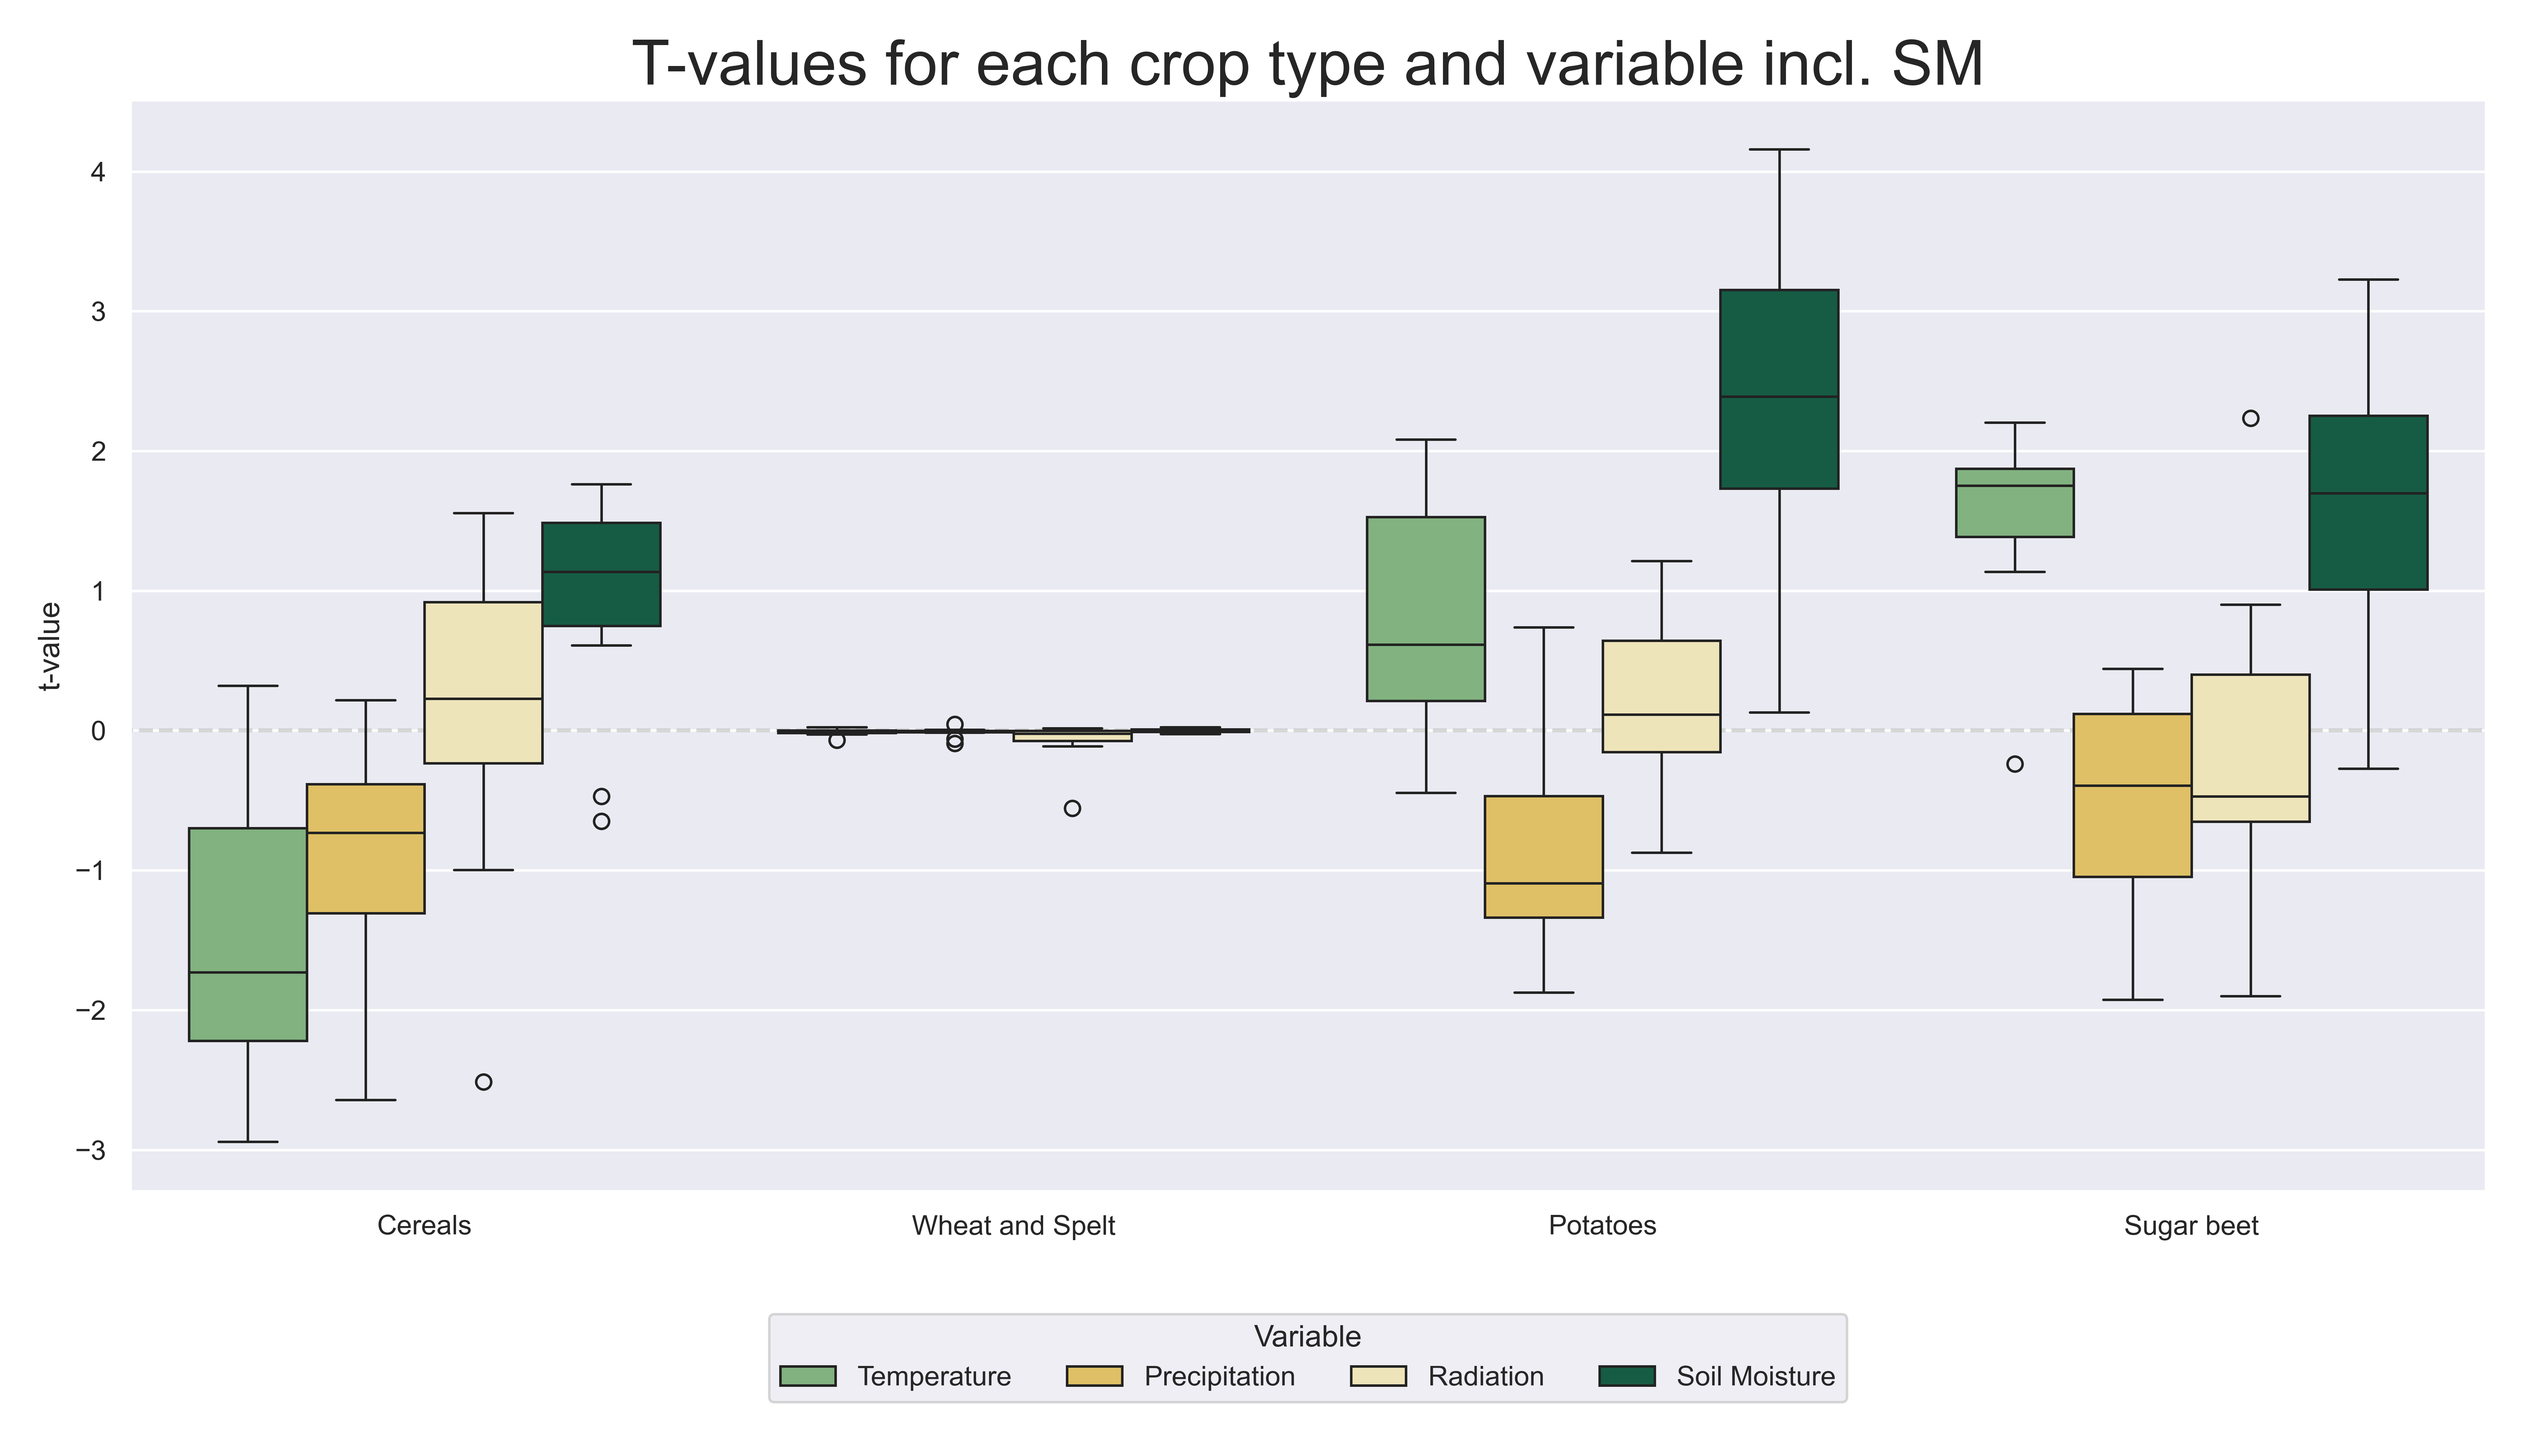
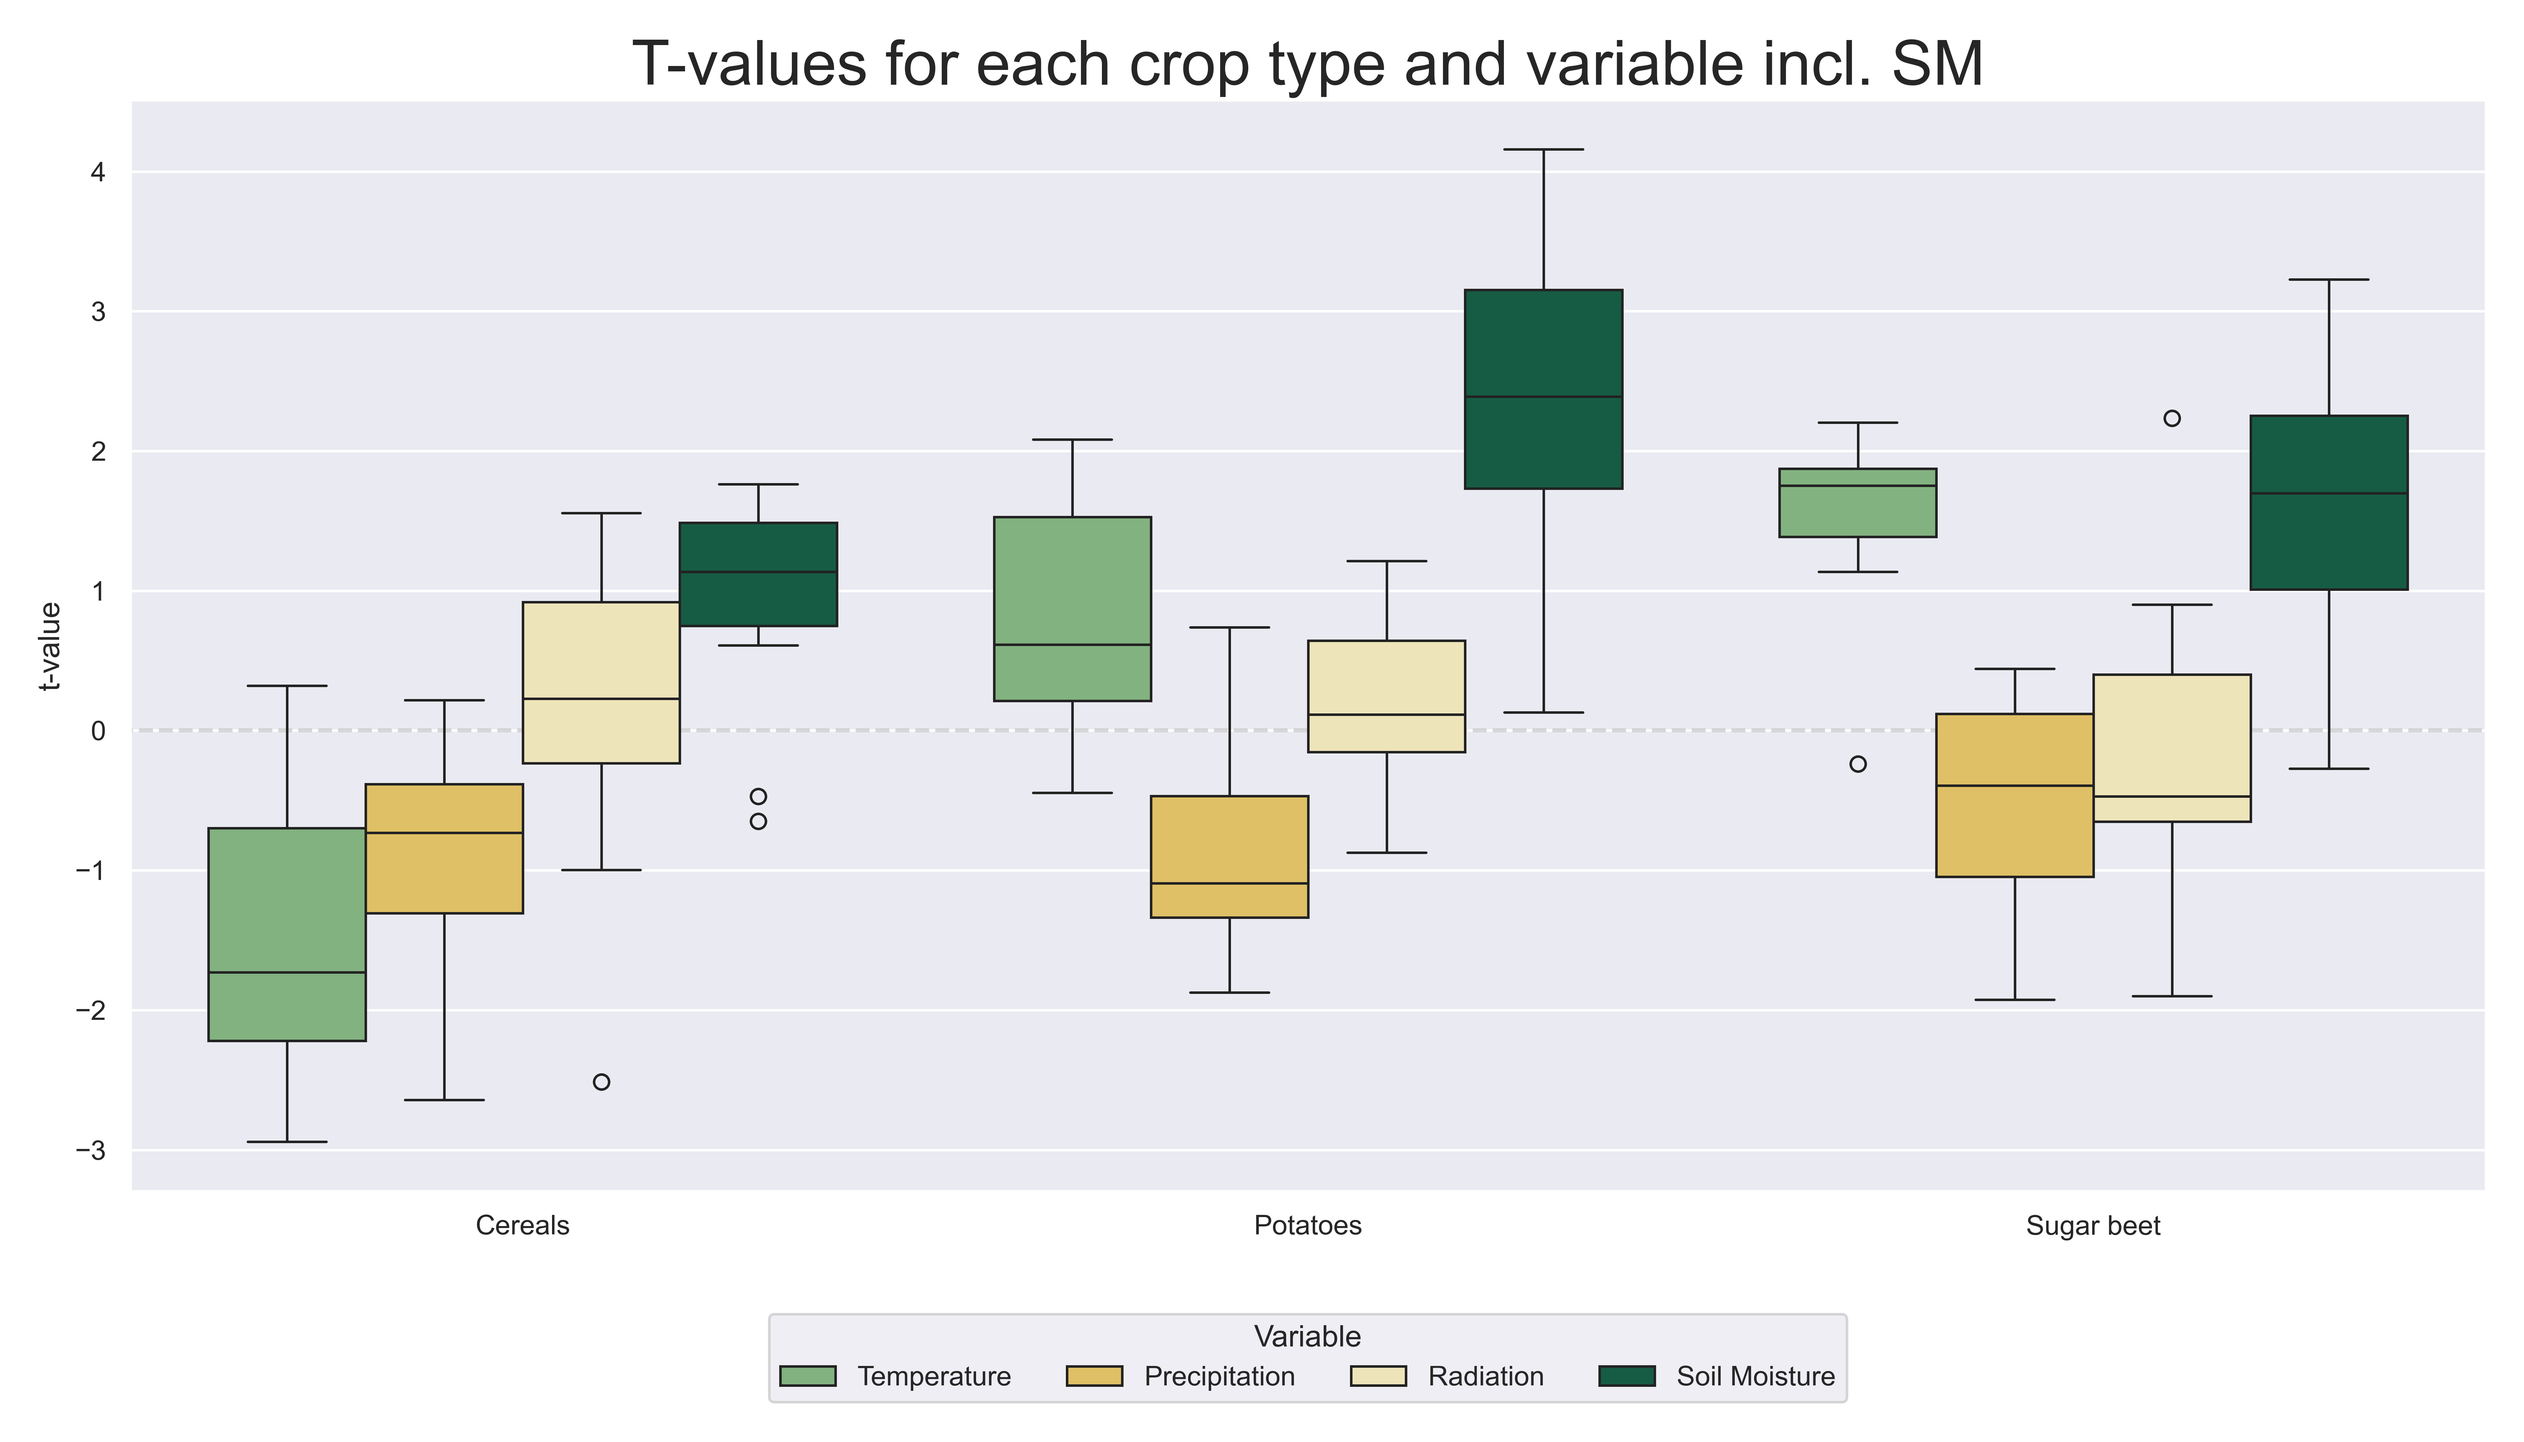
corrected plots without wheat

diff --git a/crop_yield/compareWSI/compareWSI.py b/crop_yield/compareWSI/compareWSI.py
@@ -172,7 +172,8 @@ def drop_crop(state, crop, dropped_cols_keys):
 def plot_comparison():
     sns.set_theme()
     plt.rcParams.update({'font.size': 14})
-    df = pd.read_csv('crop_yield/compareWSI/results.csv')
+    df_ = pd.read_csv('crop_yield/compareWSI/results.csv')
+    df = df_[df_['crop_type'] != 'C1100 cereal']
     # Create empty lists to store mean and standard deviation for each water stress index
     # Convert 'Correlation' column to numeric
     df['Pearson Correlation'] = pd.to_numeric(df['Pearson Correlation'], errors='coerce')
@@ -190,7 +191,7 @@ def plot_comparison():
     stdtolist = np.array(std_correlation.tolist())
     i = 0
     color = 'black'
-    for crop in ds.crop_types:
+    for crop in ds.full_crop_types:
         water_stress_values = filtered_nan_counts[filtered_nan_counts['crop_type'] == crop]['Water Stress Index'].unique().tolist()
         missing_waterstess = len(water_stress_values)-2
         fig = plt.figure(figsize=(10, 6))
@@ -204,7 +205,7 @@ def plot_comparison():
 
         i += 14
         plt.legend(bbox_to_anchor=(0.5, -0.1), loc='upper center', ncol=5)
-        plt.ylim(-0.7, 0.3)
+        plt.ylim(-0.7, 0.4)
         plt.xlim(315,395)
         plt.xlabel('Water Stress Index')
         plt.ylabel('Correlation')
@@ -215,7 +216,7 @@ def plot_comparison():
 
 def plot_comp_comparison():
     sns.set_theme()
-    plt.rcParams.update({'font.size': 14})
+    plt.rcParams.update({'font.size': 25})
     df = pd.read_csv('crop_yield/compareWSI/results.csv')
     # Create empty lists to store mean and standard deviation for each water stress index
     # Convert 'Correlation' column to numeric
@@ -239,13 +240,13 @@ def plot_comp_comparison():
     for crop in ds.filal_plot_crops:
         water_stress_values = filtered_nan_counts[filtered_nan_counts['crop_type'] == crop]['Water Stress Index'].unique().tolist()
         missing_waterstess = len(water_stress_values)-2
-        plt.plot(water_stress_values, meantolist[i+14+missing_waterstess:i+14+14], marker='o', linestyle='-', color=ds.crop_types_colors[crop], label=f'{ds.crop_short[crop]}')
-        plt.fill_between(water_stress_values, meantolist[i+missing_waterstess+14:i+14+14]-stdtolist[i+14+missing_waterstess:i+14+14], meantolist[i+14+missing_waterstess:i+14+14]+stdtolist[i+missing_waterstess+14:i+14+14], alpha=0.2, color=ds.crop_types_colors[crop])
+        plt.plot(water_stress_values, meantolist[i+14+14+missing_waterstess:i+14+14+14], marker='o', linestyle='-', color=ds.crop_types_colors[crop], label=f'{ds.crop_short[crop]}')
+        plt.fill_between(water_stress_values, meantolist[i+missing_waterstess+14+14:i+14+14+14]-stdtolist[i+14+14+missing_waterstess:i+14+14+14], meantolist[i+14+missing_waterstess+14:i+14+14+14]+stdtolist[i+missing_waterstess+14+14:i+14+14+14], alpha=0.2, color=ds.crop_types_colors[crop])
         i += 14
         plt.hlines(-ds.crop_types_correlation[crop], water_stress_values[0], 390, linestyle='--',  color=ds.crop_types_colors[crop]),#label=f'Average correlation for soilmoisture {ds.crop_short[crop]}')
     #plt.plot(water_stress_values, 390*np.ones_like(water_stress_values), linestyle='--', label='Average correlation for soilmoisture', color='grey')
     plt.legend(bbox_to_anchor=(0.5, -0.1), loc='upper center', ncol=3)
-    plt.ylim(-0.7, 0.3)
+    plt.ylim(-0.7, 0.4)
     plt.xlabel('Water Stress Index')
     plt.xlim(315,395)
     plt.ylabel('Correlation')

diff --git a/crop_yield/multipleregression.py b/crop_yield/multipleregression.py
@@ -106,8 +106,8 @@ def with_soil_moisture():
     plt.rcParams.update({'font.size': 14})
     plt.hlines(0, -1, 4, color='grey', linestyle='--', alpha=0.3)
     sns.boxplot(data=df_melted, x='crop', y='t_value', hue='Variable', palette=custom_palette)
-    my_ticks = ['Cereals', 'Wheat and Spelt', 'Potatoes', 'Sugar beet']
-    plt.xticks(ticks=[0, 1, 2, 3], labels=my_ticks)
+    my_ticks = ['Cereals', 'Potatoes', 'Sugar beet']
+    plt.xticks(ticks=[0, 1, 2], labels=my_ticks)
     #plt.xticks(rotation=45)
     plt.title("T-values for each crop type and variable incl. SM", fontsize=25)
     plt.xlabel('')
@@ -134,7 +134,7 @@ def without_soil_moisture():
     precipitation_data = pd.read_csv('crop_yield/averaged/crop_yield_processed/total_precipitation39.csv')
     radiation_data = pd.read_csv('crop_yield/averaged/crop_yield_processed/net_radiation39.csv')
     wsi_data = pd.read_csv('crop_yield/averaged/crop_yield_processed/crop_yield_DE_WSI.csv')
-
+    print(yield_data)
     for state in ds.important_states:
         for crop in ds.crop_types:
             yield_values = yield_data[(yield_data['NUTS_ID'] == state) & (yield_data['crops'] == crop)].loc[:, '2000':'2022'].values
@@ -216,8 +216,8 @@ def without_soil_moisture():
     plt.rcParams.update({'font.size': 14})
     plt.hlines(0, -1, 4, color='grey', linestyle='--', alpha=0.3)
     sns.boxplot(data=df_melted, x='crop', y='t_value', hue='Variable', palette=custom_palette)
-    my_ticks = ['Cereals', 'Wheat and Spelt', 'Potatoes', 'Sugar beet']
-    plt.xticks(ticks=[0, 1, 2, 3], labels=my_ticks)
+    my_ticks = ['Cereals', 'Potatoes', 'Sugar beet']
+    plt.xticks(ticks=[0, 1, 2], labels=my_ticks)
     #plt.xticks(rotation=45)
     plt.title("T-values for each crop type and variable excl. SM", fontsize=25)
     plt.xlabel('')
@@ -230,7 +230,6 @@ def without_soil_moisture():
     plt.show()
 
 def correlation():
-
     results_df = pd.DataFrame(columns=['NUTS_ID', 'crop', 'Temperature', 'Precipitation', 'Radiation', 'Soil Moisture'])
     crop = 'C0000'
     state = 'DE4'
@@ -277,6 +276,19 @@ def correlation():
     plt.show()
     print(correlation_matrix)
     print(correlation_matrix_sum)
-with_soil_moisture()
-without_soil_moisture()
-#correlation()
+
+def calculate_deficit():
+    yield_data = pd.read_csv('crop_yield/detrended_data.csv')
+    print(yield_data)
+    specific_crop_data = yield_data[yield_data['crops'].isin(['C1100'])]
+
+# Print the filtered DataFrame
+    print(specific_crop_data)
+    print(yield_data.groupby('crops')['2018'].mean())
+
+
+if __name__ == '__main__':
+    calculate_deficit()
+    with_soil_moisture()
+    without_soil_moisture()
+    correlation()

diff --git a/crop_yield/visualisation_waterstress.py b/crop_yield/visualisation_waterstress.py
@@ -101,14 +101,14 @@ plt.gca().set_facecolor('#F6E9B2')
 #sns.set_theme()
 plt.fill_between(dates[zero_to_nonzero:max_stress], soil_moisture[zero_to_nonzero:max_stress], water_stress_value, color='tab:red', alpha =0.9)
 plt.fill_between(dates[max_stress:nonzero_to_zero], soil_moisture[max_stress:nonzero_to_zero], water_stress_value, color='#0A6847')
-plt.plot(dates, soil_moisture, '#7ABA78', label='Soil moisture')
+plt.plot(dates, soil_moisture, '#7ABA78', label='Soil moisture', lw=4)
 plt.vlines(dates[max_stress], 300, np.max(soil_moisture), color='grey', alpha=0.5)
 plt.vlines(dates[zero_to_nonzero], 0, soil_moisture[zero_to_nonzero], color='grey', alpha=0.5)
 plt.vlines(dates[nonzero_to_zero], 0, soil_moisture[nonzero_to_zero], color='grey', alpha=0.5)
 #ax.set_xlim(np.min(soil_moisture), np.max(soil_moisture))
 plt.hlines(water_stress_value, dates[0], dates[-1], linestyles='dashed', label='Water stress threshold ', color= '#CF7967')
 plt.xlabel('')
-plt.plot(dates, water_stress/np.max(water_stress)*np.max(soil_moisture), color='black', label='Water stress')
+plt.plot(dates, water_stress/np.max(water_stress)*np.max(soil_moisture), color='black', label='Water stress', lw=4)
 plt.gca().axes.get_yaxis().set_visible(False)
 plt.gca().xaxis.set_major_formatter(mdates.DateFormatter('%B'))
 plt.legend(bbox_to_anchor=(0.5, 1.1), loc='upper center', ncol=3, framealpha=0)  # Place legend at the top

diff --git a/crop_yield/dictionary_states.py b/crop_yield/dictionary_states.py
@@ -17,6 +17,25 @@ states = {
     'DEG': 'Thuringia'
 }
 
+short_states = {
+    'DE1': 'BW',
+    'DE2': 'BY',
+    'DE3': 'BE',
+    'DE4': 'BB',
+    'DE5': 'HB',
+    'DE6': 'HH',
+    'DE7': 'HE',
+    'DE8': 'MV',
+    'DE9': 'NI',
+    'DEA': 'NW',
+    'DEB': 'RP',
+    'DEC': 'SL',
+    'DED': 'SN',
+    'DEE': 'ST',
+    'DEF': 'SH',
+    'DEG': 'TH'
+}
+
 important_states = {
     'DE1': 'Baden-Württemberg',
     'DE2': 'Bavaria',
@@ -53,7 +72,36 @@ colors = {
 
 crop_types = {
     'C0000' :   'Cereals for the production of grain (including seed)',
-    'C1100' :   'Wheat and Spelt',
     'R1000' :   'Potatoes (including seed potatoes)',
     'R2000' :   'Sugar beet (excluding seed)'
+}
+
+
+crop_short = {
+    'C0000' :   'Cereals',
+    'R1000' :   'Potatoes',
+    'R2000' :   'Sugar beet'
+}
+
+filal_plot_crops = {
+    'R1000' :   'Potatoes (including seed potatoes)',
+    'R2000' :   'Sugar beet (excluding seed)'
+}
+
+crop_types_correlation = {
+    'C0000': 0.2957806539178431,
+    'R1000': 0.47717630126363986,
+    'R2000': 0.33467476859384554
+}
+
+crop_types_colors = {
+    'C0000': 'blue',
+    'R1000': 'red',
+    'R2000': 'purple'
+}
+full_crop_types = {
+    'C0000' :   'Cereals for the production of grain (including seed)',
+    'C1100' :  'Wheat',
+    'R1000' :   'Potatoes (including seed potatoes)',
+    'R2000' :   'Sugar beet'
 }

diff --git a/crop_yield/compareWSI/dictionary_states.py b/crop_yield/compareWSI/dictionary_states.py
@@ -72,7 +72,6 @@ colors = {
 
 crop_types = {
     'C0000' :   'Cereals for the production of grain (including seed)',
-    'C1100' :   'Wheat and Spelt',
     'R1000' :   'Potatoes (including seed potatoes)',
     'R2000' :   'Sugar beet (excluding seed)'
 }
@@ -80,28 +79,33 @@ crop_types = {
 
 crop_short = {
     'C0000' :   'Cereals',
-    'C1100' :   'Wheat and Spelt',
     'R1000' :   'Potatoes',
-    'R2000' :   'Sugar beet'
+    'R2000' :   'Sugar beet',
+    'C1100' :   'Wheat'
 }
 
 filal_plot_crops = {
-    'C1100' :   'Wheat and Spelt',
     'R1000' :   'Potatoes (including seed potatoes)',
     'R2000' :   'Sugar beet (excluding seed)'
-
 }
 
 crop_types_correlation = {
     'C0000': 0.2957806539178431,
-    'C1100': 0.27708268199691793,
     'R1000': 0.47717630126363986,
-    'R2000': 0.33467476859384554
+    'R2000': 0.33467476859384554,
+    'C1100': 0.2957806539178431,
 }
 
 crop_types_colors = {
     'C0000': 'blue',
-    'C1100': 'green',
     'R1000': 'red',
     'R2000': 'purple'
+}
+
+
+full_crop_types = {
+    'C0000' :   'Cereals for the production of grain (including seed)',
+    'C1100' :  'Wheat',
+    'R1000' :   'Potatoes (including seed potatoes)',
+    'R2000' :   'Sugar beet'
 }

diff --git a/mean_std_table_wSM.tex b/mean_std_table_wSM.tex
@@ -4,7 +4,6 @@
 crop &  &  &  &  \\
 \midrule
 \textbf{C0000} & 0.28 $\pm$ 0.34 & 0.47 $\pm$ 0.33 & 0.50 $\pm$ 0.33 & 0.31 $\pm$ 0.19 \\
-\textbf{C1100} & 0.99 $\pm$ 0.02 & 0.98 $\pm$ 0.02 & 0.94 $\pm$ 0.12 & 0.99 $\pm$ 0.01 \\
 \textbf{R1000} & 0.48 $\pm$ 0.34 & 0.37 $\pm$ 0.24 & 0.63 $\pm$ 0.28 & 0.12 $\pm$ 0.25 \\
 \textbf{R2000} & 0.18 $\pm$ 0.21 & 0.58 $\pm$ 0.31 & 0.49 $\pm$ 0.23 & 0.20 $\pm$ 0.23 \\
 \bottomrule

diff --git a/mean_std_table_woSM.tex b/mean_std_table_woSM.tex
@@ -4,7 +4,6 @@
 crop &  &  &  \\
 \midrule
 \textbf{C0000} & 0.20 $\pm$ 0.25 & 0.41 $\pm$ 0.31 & 0.51 $\pm$ 0.25 \\
-\textbf{C1100} & 0.97 $\pm$ 0.03 & 0.96 $\pm$ 0.06 & 0.91 $\pm$ 0.08 \\
 \textbf{R1000} & 0.63 $\pm$ 0.19 & 0.40 $\pm$ 0.31 & 0.57 $\pm$ 0.30 \\
 \textbf{R2000} & 0.29 $\pm$ 0.21 & 0.29 $\pm$ 0.27 & 0.47 $\pm$ 0.30 \\
 \bottomrule
